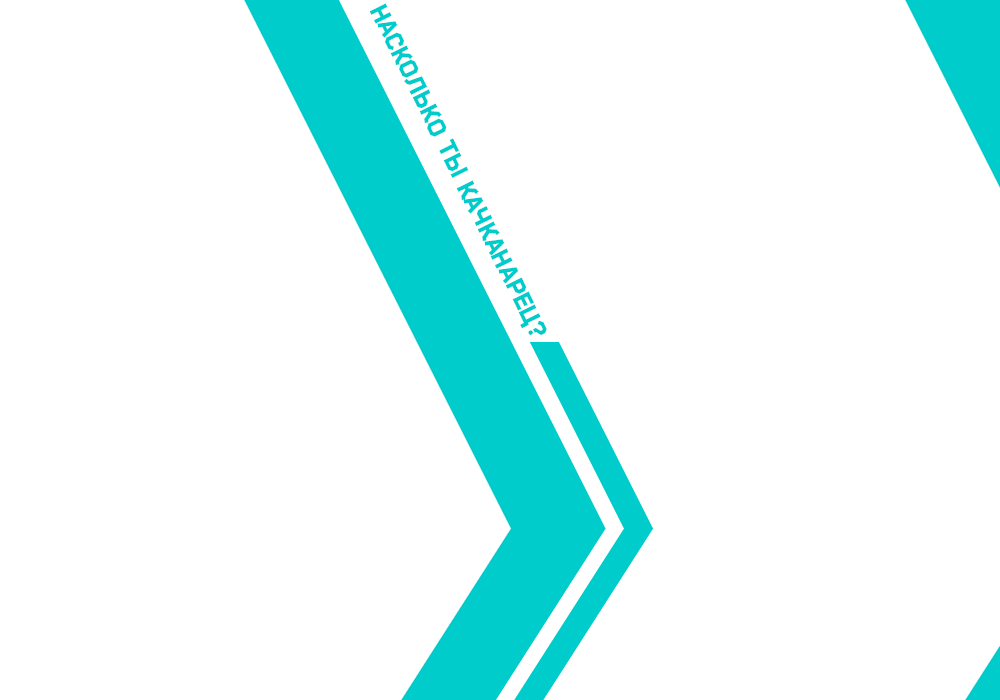
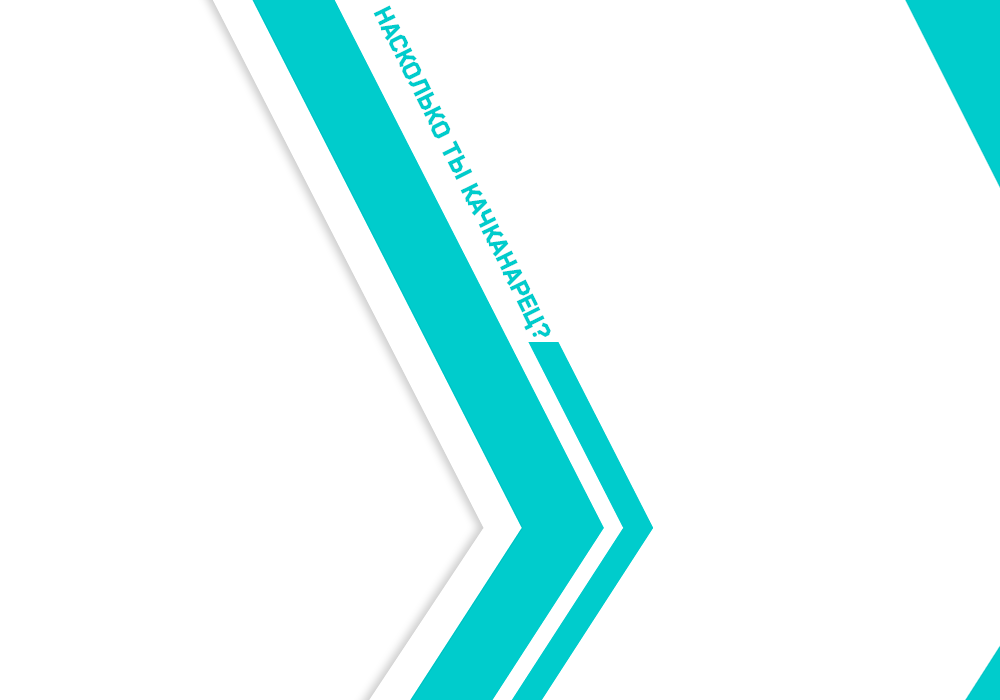
Новый фон, фон теперь поверх картинки

diff --git a/index.html b/index.html
@@ -10,43 +10,24 @@
         <link rel="stylesheet" href="https://cdnjs.cloudflare.com/ajax/libs/normalize/5.0.0/normalize.min.css">
         <link rel="stylesheet" href="./css/main.css">
     </head>
-    <body class="app">
-        <img src="images/1.png" alt="" class="picture">
-        <ul class="nav">
-            <li class="nav__item nav__item_active">1</li>
-            <li class="nav__item">2</li>
-            <li class="nav__item">3</li>
-            <li class="nav__item">4</li>
-            <li class="nav__item">5</li>
-            <li class="nav__item">6</li>
-            <li class="nav__item">7</li>
-            <li class="nav__item">8</li>
-            <li class="nav__item">9</li>
-            <li class="nav__item">10</li>
-        </ul>
-        <div class="question">Что находится<br>на дне<br>качканарского<br>водохранилища?</div>
-        <ul class="answers">
-            <li>Деревья</li>
-            <li>Атлантида</li>
-            <li>Спанч боб</li>
-            <li>Да, ничего<br><small>такого… рыбка да раки</small></li>
-        </ul>
+    <body>
+        <div class="preloader"></div>
+        <div class="splashscreen">
+            <h1>Тест «насколько ты Качканарец»</h1>
+            <p>Бла-бла-бла</p>
+            <button class="splashscreen__close">начать тест</button>
+        </div>
+        <div class="results">
+            <h1><span class="results__number"></span> правильных ответов</h1>
+        </div>
+        <main class="app">
+            <ul class="progress"></ul>
+            <div class="question"></div>
+            <ul class="answers"></ul>
 
-        <a href="https://vk.com/znajkch" class="link" target="_blank">vk.com/znajkch</a>
-
-        <script src="https://code.jquery.com/jquery-1.12.0.min.js"></script>
-        <script>window.jQuery || document.write('<script src="js/vendor/jquery-1.12.0.min.js"><\/script>')</script>
-        <script src="js/plugins.js"></script>
+            <a href="https://vk.com/znajkch" class="link" target="_blank">vk.com/znajkch</a>
+        </main>
+        <script src="https://ajax.googleapis.com/ajax/libs/jquery/3.1.1/jquery.min.js"></script>
         <script src="js/main.js"></script>
-
-        <!-- Google Analytics: change UA-XXXXX-X to be your site's ID. -->
-        <script>
-            (function(b,o,i,l,e,r){b.GoogleAnalyticsObject=l;b[l]||(b[l]=
-            function(){(b[l].q=b[l].q||[]).push(arguments)});b[l].l=+new Date;
-            e=o.createElement(i);r=o.getElementsByTagName(i)[0];
-            e.src='https://www.google-analytics.com/analytics.js';
-            r.parentNode.insertBefore(e,r)}(window,document,'script','ga'));
-            ga('create','UA-XXXXX-X','auto');ga('send','pageview');
-        </script>
     </body>
 </html>

diff --git a/css/main.css b/css/main.css
@@ -79,10 +79,6 @@
     font-weight: normal;
 }
 
-@keyframes animatedBackground {
-    0% { background-position: -1000px 0; }
-    100% { background-position: 0 0; }
-}
 @keyframes fadeIn {
     0% { opacity: 0 }
     100% { opacity: 1 }
@@ -111,27 +107,12 @@ html, body {
 
 body {
     font-family: "BenderBlack";
-    background-image: url('../images/background-left.png');
     background-size: contain;
     background-repeat: no-repeat;
     font-size: 20px;
     position: relative;
     text-transform: uppercase;
     color: #404040;
-    animation: animatedBackground 0.5s ease;
-}
-body:after {
-    content: "";
-    display: block;
-    position: absolute;
-    right: 0;
-    top: 0;
-    width: 200px;
-    height: 700px;
-    background-image: url(../images/background-right-corners.png);
-    background-repeat: no-repeat;
-    background-position: 100%;
-    z-index: -1;
 }
 
 .nav {
@@ -152,12 +133,13 @@ body:after {
     color: #00cbcc;
 }
 
-.picture {
-    opacity: 0;
-    animation-name: fadeIn;
-    animation-duration: 0.5s;
-    animation-delay: 0.5s;
-    animation-fill-mode: forwards;
+.app {
+    background-image: url('../images/background.png');
+    background-repeat: no-repeat;
+    background-position: 100%;
+    width: 100%;
+    height: 100%;
+}
 }
 
 .question {
